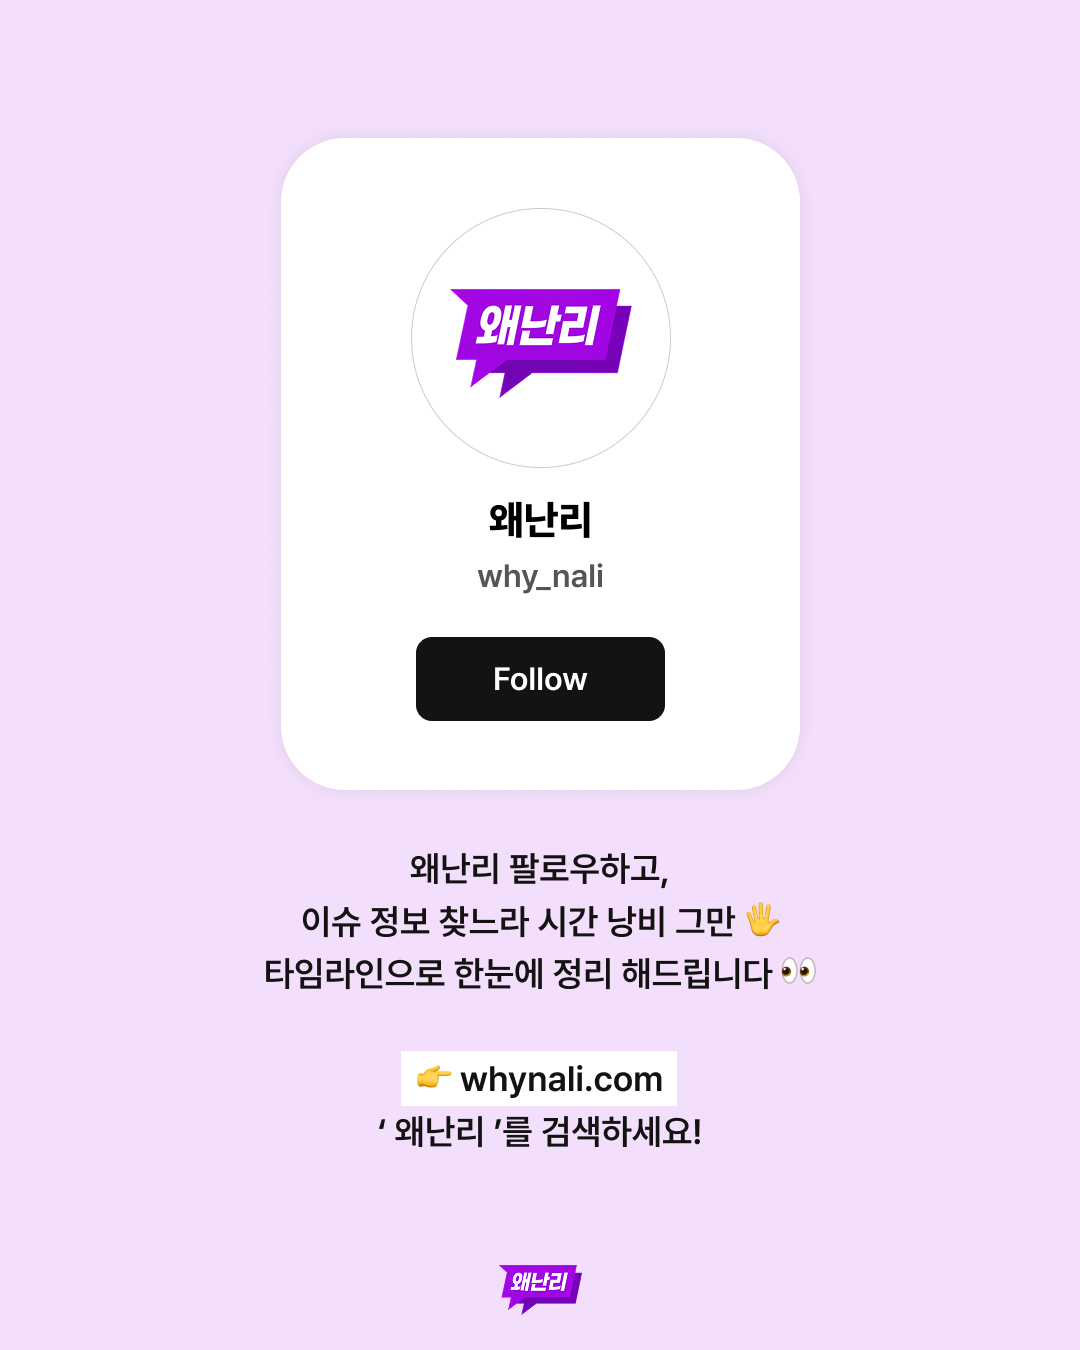
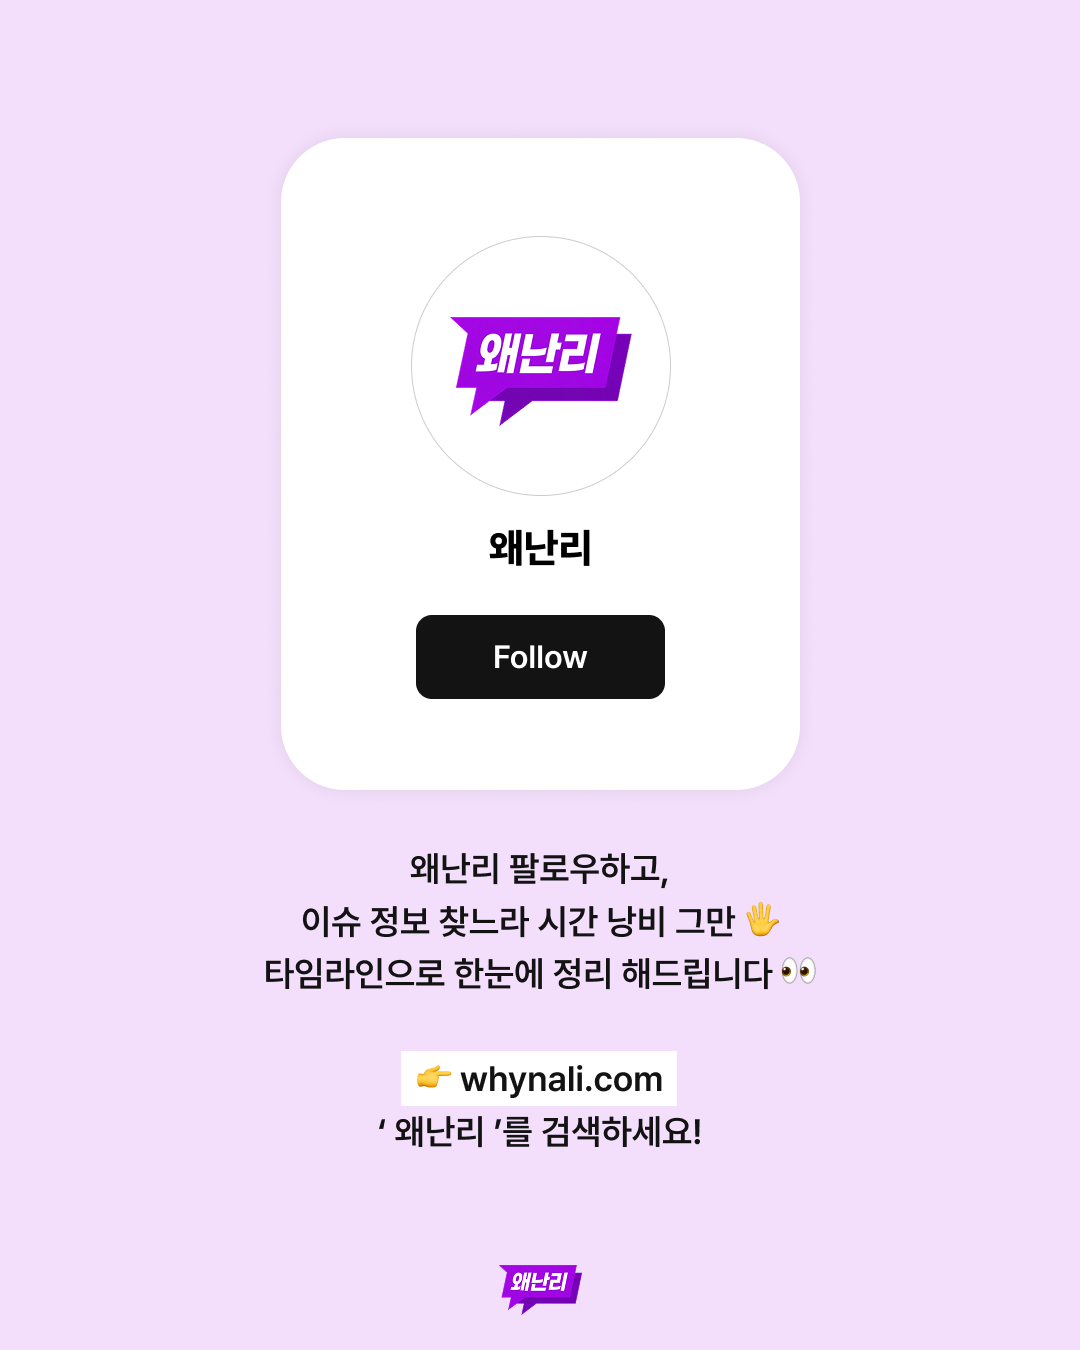
feat: 카드뉴스 이슈 검색 로직 개선 및 이모지 추가
- 최근 7일간 사용된 이슈 ID를 제외하여 중복을 방지하는 로직을 추가했습니다.
- 이슈 검색 함수에 excludeIds 매개변수를 도입하여 중복된 이슈를 필터링하도록 개선했습니다.
- 카테고리별 이모지를 추가하여 사용자 경험을 향상시켰습니다.
- HTML 템플릿에서 불필요한 HOT 인디케이터 스타일을 제거했습니다.

Changed region(s): [[0.3667, 0.3733, 0.6111, 0.56], [0.4278, 0.1867, 0.5806, 0.3111]]

diff --git a/scripts/card-news/pipeline.ts b/scripts/card-news/pipeline.ts
@@ -55,6 +55,16 @@ const groq = new Groq({ apiKey: GROQ_API_KEY })
 
 type ContentMode = 'weekend-recap' | 'surging' | 'weekly-top3' | 'by-category' | 'timeline'
 
+const CATEGORY_EMOJI: Record<string, string> = {
+  '정치': '🏛️',
+  '경제': '💰',
+  '사회': '🚨',
+  '연예': '🎭',
+  '스포츠': '⚽',
+  '기술': '💻',
+}
+const catEmoji = (category: string) => `${CATEGORY_EMOJI[category] ?? '📌'} ${category}`
+
 interface Issue {
   id: string
   title: string
@@ -120,34 +130,39 @@ async function run() {
   let closedIssue: ClosedIssue | null = null
   let effectiveMode = mode
 
+  // 최근 7일 카드뉴스에서 사용된 이슈 ID — 중복 방지
+  const usedIssueIds = await fetchRecentlyUsedIssueIds()
+  console.log(`ℹ️  최근 7일 사용 이슈 ${usedIssueIds.size}개 제외`)
+
   if (mode === 'weekend-recap') {
-    issues = await fetchWeekendTopIssues()
+    issues = await fetchWeekendTopIssues(usedIssueIds)
   } else if (mode === 'surging') {
-    const issue = await fetchSurgingIssue()
+    const issue = await fetchSurgingIssue(usedIssueIds)
     if (issue) {
       issues = [issue]
     } else {
-      issues = await fetchTopIssues()
+      issues = await fetchTopIssues(usedIssueIds)
       effectiveMode = 'weekly-top3'
       console.warn('⚠️  급상승 이슈 없음, weekly-top3로 대체')
     }
   } else if (mode === 'weekly-top3') {
-    issues = await fetchTopIssues()
+    issues = await fetchTopIssues(usedIssueIds)
   } else if (mode === 'by-category') {
-    issues = await fetchCategoryTopIssues()
+    issues = await fetchCategoryTopIssues(usedIssueIds)
   } else if (mode === 'timeline') {
-    closedIssue = await fetchClosedIssueTimeline()
+    closedIssue = await fetchClosedIssueTimeline(usedIssueIds)
     if (!closedIssue) {
-      issues = await fetchTopIssues()
+      issues = await fetchTopIssues(usedIssueIds)
       effectiveMode = 'weekly-top3'
       console.warn('⚠️  타임라인 이슈 없음, weekly-top3로 대체')
     }
   }
 
   if (effectiveMode !== 'timeline' && issues.length === 0) {
+    // excludeIds 없이 재시도 (이슈 풀이 너무 좁을 경우 안전망)
     issues = await fetchTopIssues()
     effectiveMode = 'weekly-top3'
-    console.warn('⚠️  이슈 없음, weekly-top3로 대체')
+    console.warn('⚠️  이슈 없음 (중복 제외 후), excludeIds 없이 weekly-top3 대체')
   }
 
   const fetchedLabel = effectiveMode === 'timeline'
@@ -274,7 +289,23 @@ async function run() {
 
 // ─── 1. Supabase 데이터 조회 ────────────────────────────
 
-async function fetchTopIssues(): Promise<Issue[]> {
+// 최근 N일 카드뉴스에 사용된 이슈 ID 세트 (중복 방지)
+async function fetchRecentlyUsedIssueIds(days = 7): Promise<Set<string>> {
+  const since = new Date(Date.now() - days * 24 * 60 * 60 * 1000).toISOString()
+  const { data } = await supabase
+    .from('card_news_logs')
+    .select('issues')
+    .gte('created_at', since)
+  if (!data || data.length === 0) return new Set()
+  const ids = data.flatMap(log =>
+    (log.issues as Array<{ id: string }> | null)?.map(i => i.id) ?? []
+  )
+  return new Set(ids)
+}
+
+const SEVEN_DAYS_AGO = () => new Date(Date.now() - 7 * 24 * 60 * 60 * 1000).toISOString()
+
+async function fetchTopIssues(excludeIds: Set<string> = new Set()): Promise<Issue[]> {
   const { data, error } = await supabase
     .from('issues')
     .select('id, title, category, thumbnail_urls, primary_thumbnail_index, heat_index, topic, topic_description')
@@ -282,14 +313,15 @@ async function fetchTopIssues(): Promise<Issue[]> {
     .eq('visibility_status', 'visible')
     .neq('status', '종결')
     .is('merged_into_id', null)
+    .gte('updated_at', SEVEN_DAYS_AGO())
     .order('heat_index', { ascending: false, nullsFirst: false })
-    .limit(3)
+    .limit(20)
   if (error) throw new Error(`Supabase 조회 실패: ${error.message}`)
-  return data || []
+  return ((data || []) as Issue[]).filter(i => !excludeIds.has(i.id)).slice(0, 3)
 }
 
 // 월요일: 직전 금~일 동안 업데이트된 이슈 중 heat_index 상위 3개
-async function fetchWeekendTopIssues(): Promise<Issue[]> {
+async function fetchWeekendTopIssues(excludeIds: Set<string> = new Set()): Promise<Issue[]> {
   const since = new Date(Date.now() - 3 * 24 * 60 * 60 * 1000).toISOString()
   const { data, error } = await supabase
     .from('issues')
@@ -299,20 +331,20 @@ async function fetchWeekendTopIssues(): Promise<Issue[]> {
     .is('merged_into_id', null)
     .gte('updated_at', since)
     .order('heat_index', { ascending: false, nullsFirst: false })
-    .limit(3)
+    .limit(20)
   if (error) throw new Error(`Supabase 조회 실패: ${error.message}`)
 
-  const result = (data || []) as Issue[]
+  const result = ((data || []) as Issue[]).filter(i => !excludeIds.has(i.id)).slice(0, 3)
   if (result.length >= 3) return result
 
   // 주말 이슈 부족 시 전체 top으로 보충
-  const fallback = await fetchTopIssues()
+  const fallback = await fetchTopIssues(excludeIds)
   const existing = new Set(result.map(i => i.id))
   return [...result, ...fallback.filter(i => !existing.has(i.id))].slice(0, 3)
 }
 
 // 화요일: surgePct 기준 1위 이슈
-async function fetchSurgingIssue(): Promise<Issue | null> {
+async function fetchSurgingIssue(excludeIds: Set<string> = new Set()): Promise<Issue | null> {
   const { data, error } = await supabase
     .from('issues')
     .select('id, title, category, thumbnail_urls, primary_thumbnail_index, heat_index, heat_index_1h_ago, topic, topic_description')
@@ -320,13 +352,14 @@ async function fetchSurgingIssue(): Promise<Issue | null> {
     .eq('visibility_status', 'visible')
     .neq('status', '종결')
     .is('merged_into_id', null)
+    .gte('updated_at', SEVEN_DAYS_AGO())
     .not('heat_index_1h_ago', 'is', null)
     .gt('heat_index_1h_ago', 0)
     .order('heat_index', { ascending: false, nullsFirst: false })
     .limit(50)
   if (error) throw new Error(`Supabase 조회 실패: ${error.message}`)
 
-  const candidates = (data || []) as Issue[]
+  const candidates = ((data || []) as Issue[]).filter(i => !excludeIds.has(i.id))
   const withSurge = candidates
     .map(i => ({
       ...i,
@@ -341,7 +374,7 @@ async function fetchSurgingIssue(): Promise<Issue | null> {
 // 목요일: 카테고리별 heat_index 1위
 const CARD_NEWS_CATEGORIES = ['정치', '경제', '사회', '연예'] as const
 
-async function fetchCategoryTopIssues(): Promise<Issue[]> {
+async function fetchCategoryTopIssues(excludeIds: Set<string> = new Set()): Promise<Issue[]> {
   const results: Issue[] = []
   for (const cat of CARD_NEWS_CATEGORIES) {
     const { data } = await supabase
@@ -351,16 +384,20 @@ async function fetchCategoryTopIssues(): Promise<Issue[]> {
       .eq('visibility_status', 'visible')
       .neq('status', '종결')
       .is('merged_into_id', null)
+      .gte('updated_at', SEVEN_DAYS_AGO())
       .eq('category', cat)
       .order('heat_index', { ascending: false, nullsFirst: false })
-      .limit(1)
-    if (data && data.length > 0) results.push(data[0] as Issue)
+      .limit(10)
+    if (data && data.length > 0) {
+      const pick = (data as Issue[]).find(i => !excludeIds.has(i.id))
+      if (pick) results.push(pick)
+    }
   }
   return results
 }
 
 // 금요일: 이번주 종결 이슈 중 timeline_points가 2개 이상인 것
-async function fetchClosedIssueTimeline(): Promise<ClosedIssue | null> {
+async function fetchClosedIssueTimeline(excludeIds: Set<string> = new Set()): Promise<ClosedIssue | null> {
   const queries = [
     new Date(Date.now() - 4 * 24 * 60 * 60 * 1000).toISOString(), // 이번주 (금 기준 월요일)
     new Date(Date.now() - 30 * 24 * 60 * 60 * 1000).toISOString(), // 30일 fallback
@@ -376,11 +413,11 @@ async function fetchClosedIssueTimeline(): Promise<ClosedIssue | null> {
       .is('merged_into_id', null)
       .gte('updated_at', since)
       .order('heat_index', { ascending: false, nullsFirst: false })
-      .limit(5)
+      .limit(10)
 
     if (!data || data.length === 0) continue
 
-    for (const issue of data as Issue[]) {
+    for (const issue of (data as Issue[]).filter(i => !excludeIds.has(i.id))) {
       const { data: points } = await supabase
         .from('timeline_points')
         .select('stage, title, occurred_at')
@@ -432,6 +469,30 @@ async function generateCoverKeywords(issues: Issue[], mode: ContentMode): Promis
   }
 }
 
+// timeline 단계별 Pexels 키워드 생성
+async function generateStageKeywords(issue: Issue, stage: string, points: TimelinePoint[]): Promise<string> {
+  const pointTitles = points.slice(0, 3).map(p => p.title).join(', ')
+  const res = await groq.chat.completions.create({
+    model: 'llama-3.3-70b-versatile',
+    messages: [
+      { role: 'system', content: 'You are a stock photo search expert. Return ONLY valid JSON.' },
+      {
+        role: 'user',
+        content: `Korean news issue: "${issue.title}" — stage: ${stage}\nKey events: ${pointTitles}\n\nGenerate 2-3 English keywords for a Pexels portrait photo that visually represents this stage's mood or theme.\nReturn JSON only: {"keywords": "2-3 english words"}`,
+      },
+    ],
+    temperature: 0.5,
+    max_tokens: 60,
+  })
+  try {
+    const raw = res.choices[0].message.content ?? '{}'
+    const cleaned = raw.replace(/^```(?:json)?\n?/m, '').replace(/\n?```$/m, '').trim()
+    return JSON.parse(cleaned).keywords ?? issue.category
+  } catch {
+    return issue.category
+  }
+}
+
 async function fetchPexelsImage(keywords: string): Promise<string | null> {
   if (!PEXELS_API_KEY) {
     console.warn('⚠️  PEXELS_API_KEY 없음 — 다크 커버 사용')
@@ -468,10 +529,25 @@ async function fetchPexelsImage(keywords: string): Promise<string | null> {
 
 // ─── 3. Groq AI 텍스트 생성 헬퍼 ────────────────────────
 
+// 이슈에 연결된 뉴스 기사 제목 최대 N개 조회
+async function fetchNewsHeadlines(issueId: string, limit = 5): Promise<string[]> {
+  const { data } = await supabase
+    .from('news_data')
+    .select('title, source')
+    .eq('issue_id', issueId)
+    .not('title', 'is', null)
+    .order('published_at', { ascending: false })
+    .limit(limit)
+  if (!data || data.length === 0) return []
+  return data.map(n => `- ${n.title}${n.source ? ` (${n.source})` : ''}`)
+}
+
 async function generateBadgeContent(
   issue: Issue,
   context = ''
 ): Promise<{ desc: string; point_text_01: string; point_text_02: string }> {
+  const headlines = await fetchNewsHeadlines(issue.id)
+
   const res = await groq.chat.completions.create({
     model: 'llama-3.3-70b-versatile',
     messages: [
@@ -483,16 +559,17 @@ async function generateBadgeContent(
           `카테고리: ${issue.category} | 화력: ${issue.heat_index ?? 0}점`,
           issue.topic ? `주제: ${issue.topic}` : null,
           issue.topic_description ? `설명: ${issue.topic_description}` : null,
+          headlines.length > 0 ? `\n관련 뉴스 기사 제목 (최신순):\n${headlines.join('\n')}` : null,
           context || null,
           '',
           '위 정보를 바탕으로 카드뉴스 텍스트를 JSON으로 생성해줘 (한글만, 한자 금지):',
           '{',
-          '  "desc": "기승전결 3줄. 1줄=상황 설정, 2줄=반전/전개(그런데·하지만·결국 같은 접속사로 자연스럽게 연결), 3줄=의문형 또는 예고형으로 궁금증 유발. ~~다로 끝나는 줄엔 마침표(.) 필수. 마지막 줄이 의문형이면 물음표(?) 필수. 줄바꿈은 \\\\n 사용 (각 줄 22자 이내)",',
+          '  "desc": "기승전결 3줄. 뉴스 기사 제목에서 구체적 사실(인물명·기관명·수치·사건명)을 반드시 1개 이상 언급할 것. 1줄=상황 설정, 2줄=반전/전개(그런데·하지만·결국 같은 접속사로 자연스럽게 연결), 3줄=의문형 또는 예고형으로 궁금증 유발. ~~다로 끝나는 줄엔 마침표(.) 필수. 마지막 줄이 의문형이면 물음표(?) 필수. 줄바꿈은 \\\\n 사용 (각 줄 22자 이내)",',
           '  "point_text_01": "이슈 핵심 인물 또는 기관을 나타내는 짧은 구. 앞에 어울리는 이모지 1개 포함 (예: \'🏢 삼성전자 발표\', \'🏐 배구 국가대표\', 이모지 제외 12자 이내)",',
           '  "point_text_02": "이슈의 핵심 상황 또는 쟁점을 나타내는 짧은 구. 앞에 어울리는 이모지 1개 포함 (예: \'🚨 성희롱 의혹 확산\', \'🔍 노동부 조사 착수\', 이모지 제외 12자 이내). point_text_01과 다른 이모지를 사용할 것."',
           '}',
           '',
-          '나쁜 예시 (금지): "논란이 일고 있다\\n조사에 착수했다\\n확산되고 있다" — 접속사 없고 마침표·물음표도 없음',
+          '나쁜 예시 (금지): "논란이 일고 있다\\n조사에 착수했다\\n확산되고 있다" — 구체적 사실 없고 접속사·마침표·물음표도 없음',
           '좋은 예시: "조용하던 직장에 폭로 한 방.\\n그런데 피해자들이 목소리를 높이기 시작.\\n진실은 과연 드러날까?" — 한 문단처럼 읽히고 물음표로 마무리',
           '',
           'JSON 코드블록 없이 순수 JSON만 출력.',
@@ -514,8 +591,8 @@ async function generateBadgeContent(
   } catch {
     return {
       desc: issue.topic_description?.split('\n').slice(0, 3).join('\n') ?? '내용을 불러오는 중 오류가 발생했습니다.',
-      point_text_01: issue.category,
-      point_text_02: `화력 ${issue.heat_index ?? 0}점`,
+      point_text_01: `📌 ${(issue.topic ?? issue.title).slice(0, 14)}`,
+      point_text_02: `📢 지금 주목`,
     }
   }
 }
@@ -611,8 +688,8 @@ JSON만 출력, 설명 없이.`,
       type: 'badge',
       sub_title: issue.topic ?? issue.title,
       desc: badgeContent.desc,
-      point_text_01: issue.category,
-      point_text_02: surgePctStr ? `▲ ${surgePctStr}` : `화력 ${issue.heat_index ?? 0}점`,
+      point_text_01: badgeContent.point_text_01,
+      point_text_02: surgePctStr ? `📈 ▲ ${surgePctStr}` : `🔥 지금 급상승`,
       bg_image_url: bg,
       logo_image_url: LOGO_BASE64,
     },
@@ -648,8 +725,8 @@ async function generateCategorySlides(issues: Issue[]): Promise<SlideContent[]> 
       type: 'badge',
       sub_title: issue.topic ?? issue.title,
       desc: content.desc,
-      point_text_01: issue.category,
-      point_text_02: `화력 ${issue.heat_index ?? 0}점`,
+      point_text_01: content.point_text_01,
+      point_text_02: `🏆 분야 1위`,
       bg_image_url: getIssueThumbnail(issue),
       logo_image_url: LOGO_BASE64,
     })
@@ -722,11 +799,15 @@ JSON: {"desc": "요약"} 만 출력.`,
       }
     }
 
+    // 단계별 고유 Pexels 이미지 (없으면 이슈 썸네일로 fallback)
+    const stageKeywords = await generateStageKeywords(issue, stage, points)
+    const stageBg = await fetchPexelsImage(stageKeywords) ?? bg
+
     slides.push({
       type: 'body',
       sub_title: stage,
       desc,
-      bg_image_url: bg,
+      bg_image_url: stageBg,
       logo_image_url: LOGO_BASE64,
     })
   }
@@ -736,14 +817,16 @@ JSON: {"desc": "요약"} 만 출력.`,
     const closingPoints = grouped.get(closingStage)!
     const lastOccurred = new Date(closingPoints[closingPoints.length - 1].occurred_at)
     const dateStr = `${lastOccurred.getMonth() + 1}/${lastOccurred.getDate()} 종결`
+    const closingKeywords = await generateStageKeywords(issue, '종결', closingPoints)
+    const closingBg = await fetchPexelsImage(closingKeywords) ?? bg
 
     slides.push({
       type: 'badge',
       sub_title: '종결',
       desc: closingPoints.slice(0, 3).map(p => p.title).join('\n'),
-      point_text_01: dateStr,
-      point_text_02: `화력 ${issue.heat_index ?? 0}점`,
-      bg_image_url: bg,
+      point_text_01: `📅 ${dateStr}`,
+      point_text_02: `✅ 이슈 종결`,
+      bg_image_url: closingBg,
       logo_image_url: LOGO_BASE64,
     })
   }

diff --git a/scripts/card-news/templates/slide-01-cover.html b/scripts/card-news/templates/slide-01-cover.html
@@ -68,34 +68,6 @@
     }
 
 
-    /* HOT 인디케이터 — 우상단 */
-    .hot-badge {
-      position: absolute;
-      top: 60px;
-      right: 72px;
-      display: flex;
-      align-items: center;
-      gap: 10px;
-      border: 1.5px solid rgba(239, 68, 68, 0.6);
-      padding: 10px 24px;
-      border-radius: 100px;
-    }
-
-    .hot-dot {
-      width: 12px;
-      height: 12px;
-      border-radius: 50%;
-      background: #EF4444;
-    }
-
-    .hot-text {
-      font-family: 'Pretendard', sans-serif;
-      font-weight: 700;
-      font-size: 24px;
-      color: #EF4444;
-      letter-spacing: 3px;
-    }
-
     /* 하단 콘텐츠 블록 */
     .content {
       position: absolute;
@@ -186,12 +158,6 @@
   <div class="bg-gradient" id="bg-gradient"></div>
   <div class="glow-top-right"></div>
   <div class="glow-bottom-left"></div>
-
-  <!-- HOT 인디케이터 -->
-  <div class="hot-badge">
-    <div class="hot-dot"></div>
-    <span class="hot-text">HOT</span>
-  </div>
 
   <!-- 하단 콘텐츠 -->
   <div class="content">